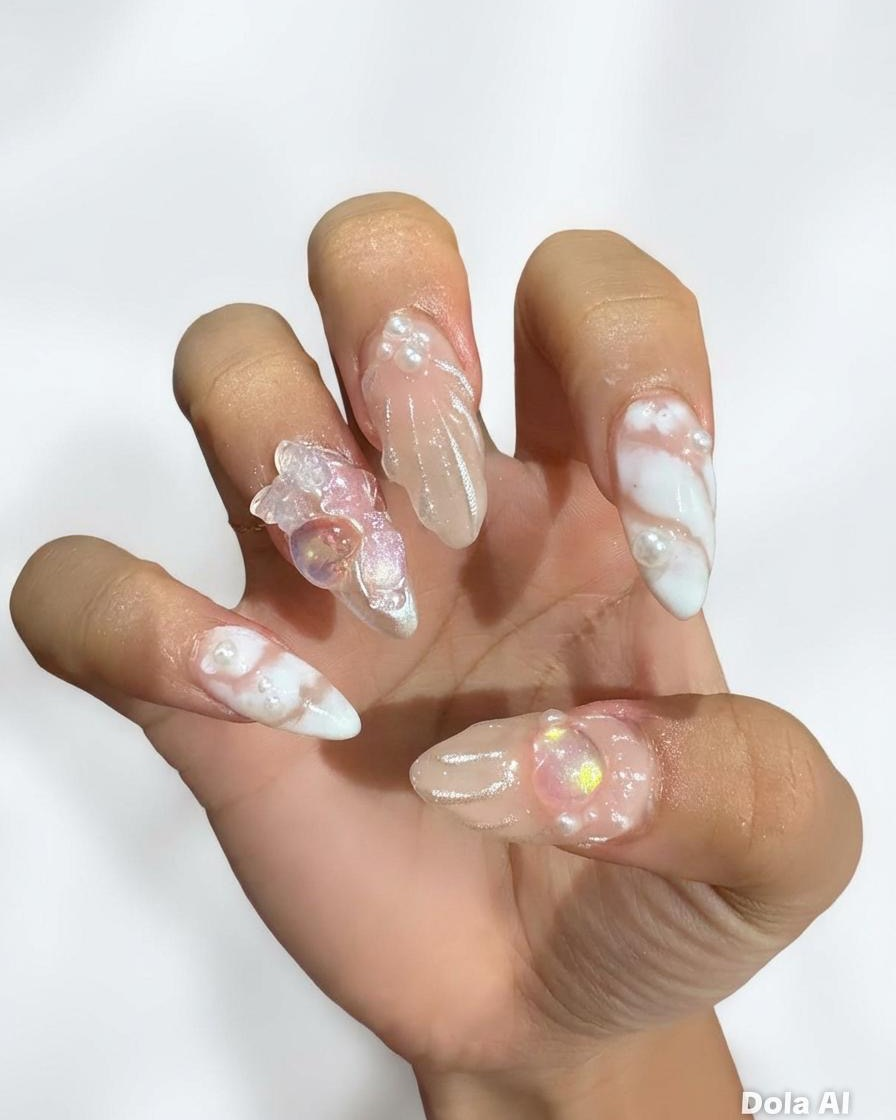
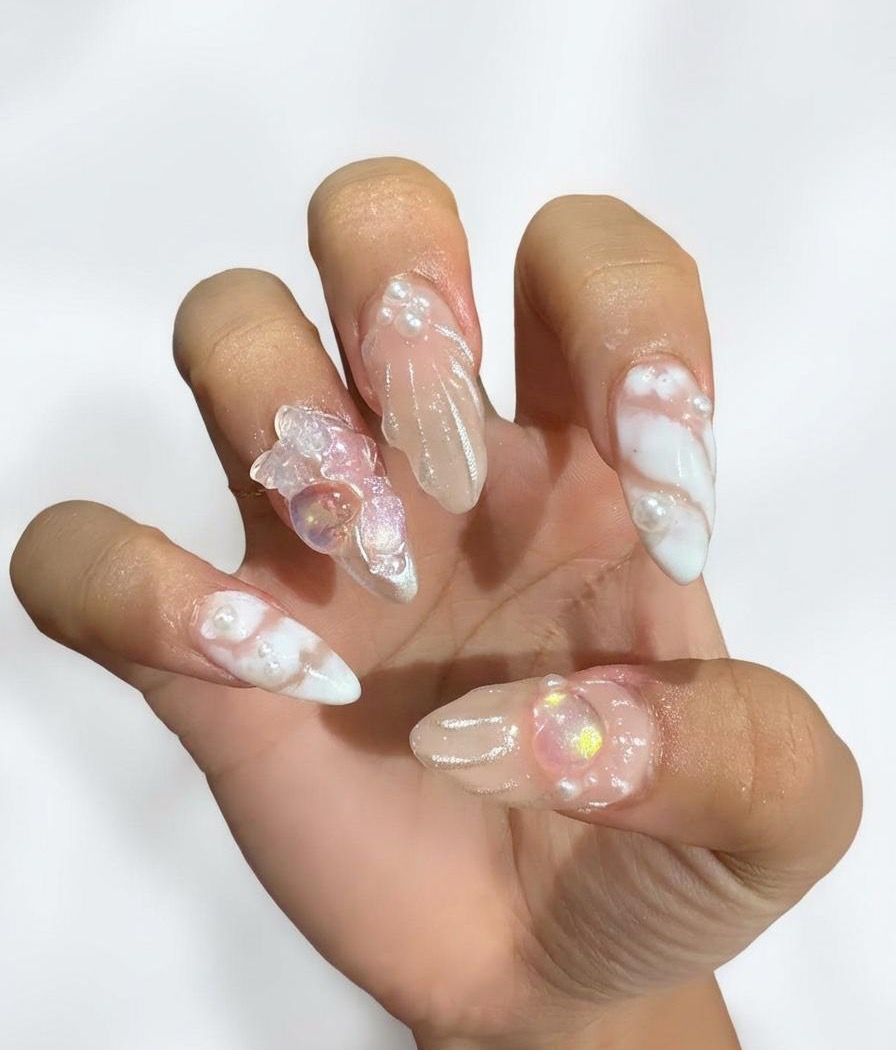
Normalize portfolio image crops

diff --git a/app/globals.css b/app/globals.css
@@ -34,7 +34,7 @@
 
 .phone-auth-field{display:flex;flex-direction:column;gap:8px}.phone-code-button{align-self:flex-start;border-bottom:1px solid var(--deep);font-size:.72rem;padding:3px 0}.phone-code-button:disabled{opacity:.65;cursor:default}.phone-code-row{display:grid;grid-template-columns:1fr auto;gap:8px}.phone-code-row input{width:100%;border:1px solid var(--line);border-radius:8px;padding:11px 12px;font:inherit}
 
-.portfolio-grid{display:grid;grid-template-columns:repeat(3,minmax(0,1fr));gap:16px;padding-bottom:100px}.portfolio-photo{margin:0;overflow:hidden;border-radius:16px;background:var(--lavender);line-height:0}.portfolio-photo img{width:100%;height:auto;display:block;transition:transform .35s ease}.portfolio-photo:hover img{transform:scale(1.02)}@media(max-width:700px){.portfolio-grid{grid-template-columns:repeat(2,minmax(0,1fr));gap:10px;padding-bottom:70px}.portfolio-photo{border-radius:10px}}
+.portfolio-grid{display:grid;grid-template-columns:repeat(3,minmax(0,1fr));gap:16px;padding-bottom:100px}.portfolio-photo{margin:0;overflow:hidden;border-radius:16px;background:var(--lavender);line-height:0;aspect-ratio:4/5}.portfolio-photo img{width:100%;height:100%;object-fit:cover;object-position:center;display:block;transition:transform .35s ease}.portfolio-photo:hover img{transform:scale(1.02)}@media(max-width:700px){.portfolio-grid{grid-template-columns:repeat(2,minmax(0,1fr));gap:10px;padding-bottom:70px}.portfolio-photo{border-radius:10px}}
 
 .manage-booking-page{max-width:760px;padding-block:80px 120px}.manage-booking-page h1{font-family:Georgia,"Times New Roman",serif;font-size:clamp(2.5rem,6vw,5rem);font-weight:400;letter-spacing:-.06em;margin:0 0 34px}.manage-booking-card{display:grid;grid-template-columns:repeat(2,1fr);gap:20px;padding:28px;border:1px solid var(--line);border-radius:16px;background:var(--lavender);margin-bottom:24px}.manage-booking-card strong{display:block;font-size:.9rem;font-weight:500}.manage-booking-policy{color:var(--muted);line-height:1.6;font-size:.85rem;max-width:520px;margin:0 0 24px}@media(max-width:600px){.manage-booking-page{padding-block:55px 90px}.manage-booking-card{grid-template-columns:1fr;padding:22px}}
 
